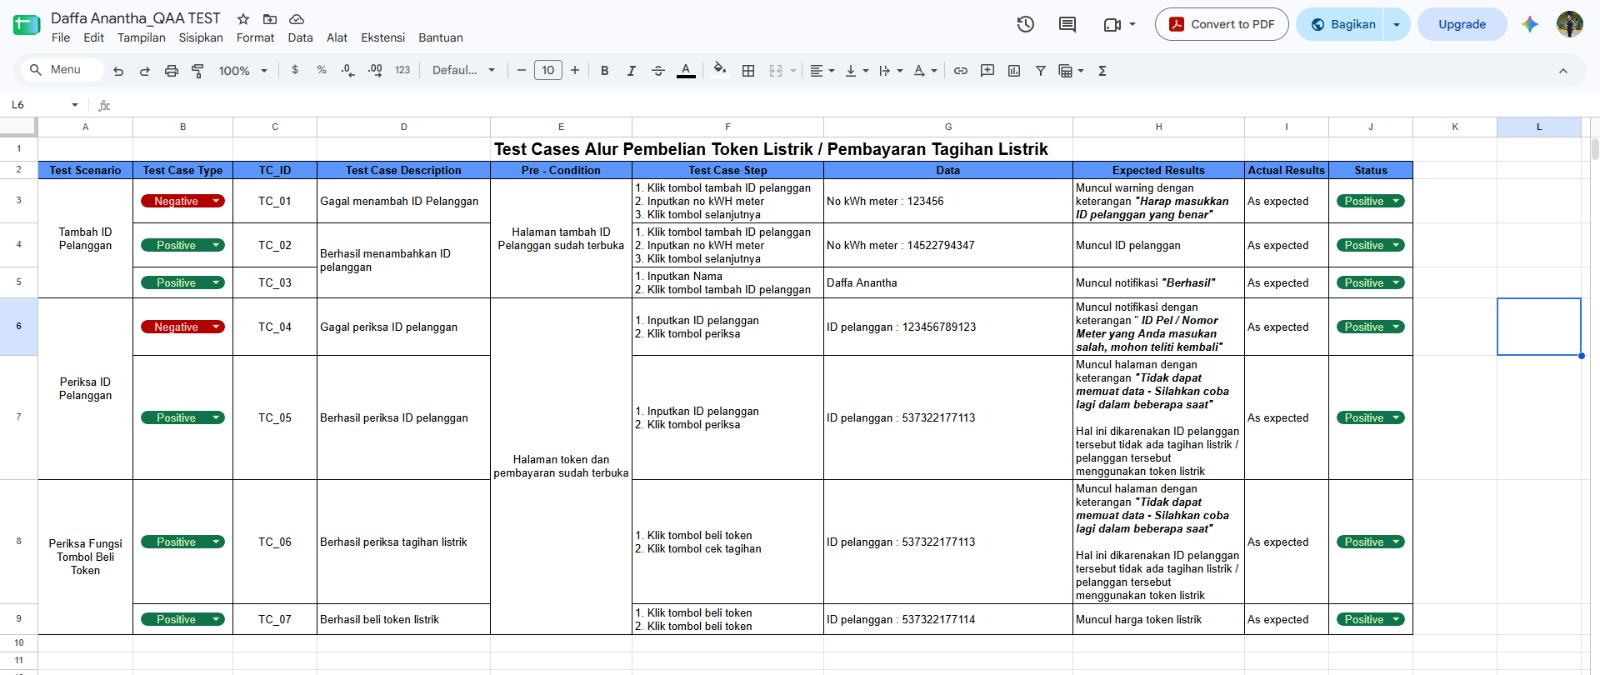
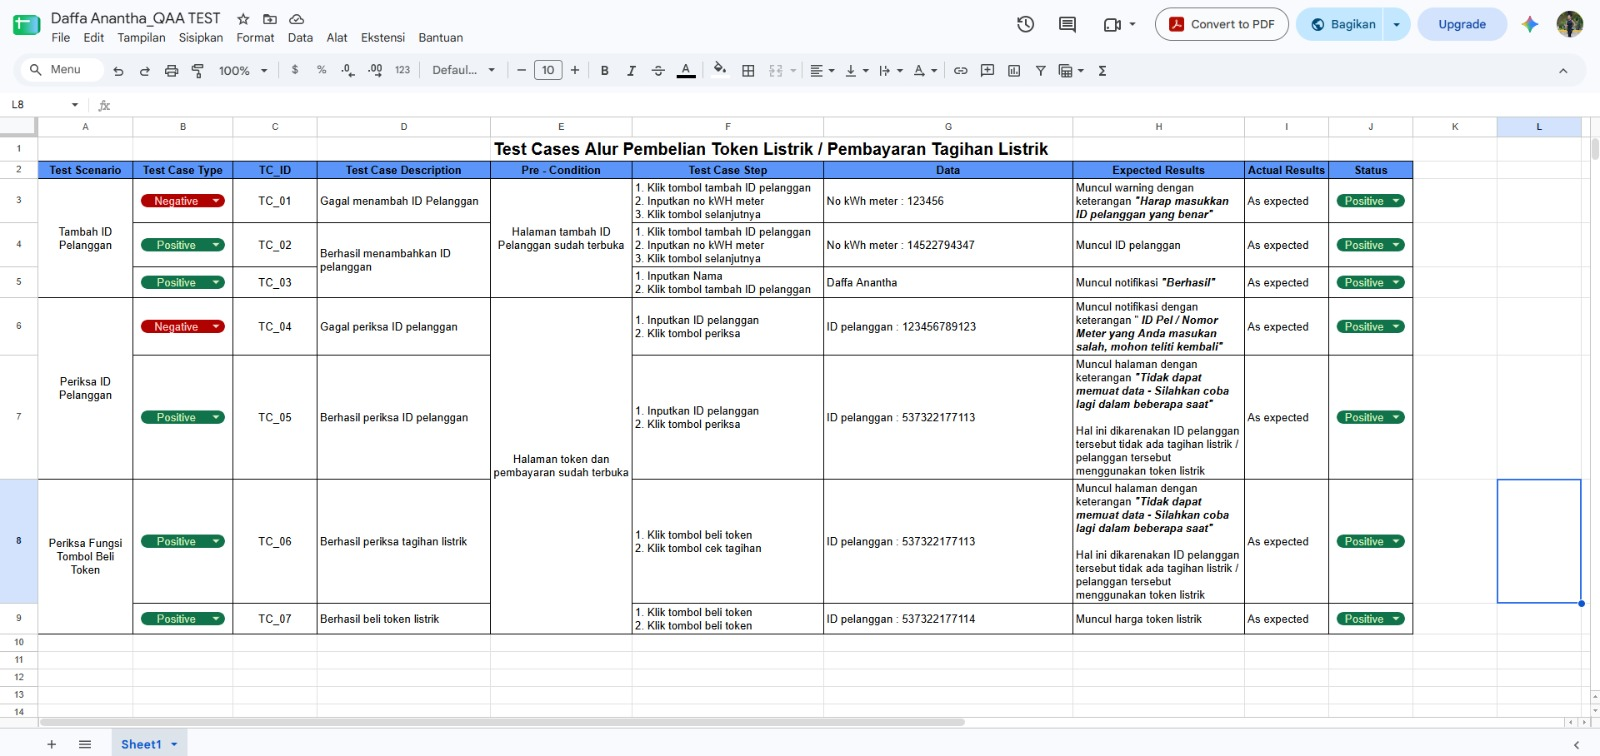
update portofolio

diff --git a/index.html b/index.html
@@ -353,7 +353,117 @@
 							</div>
 							<div class="short_info">
 								<h4><a href="https://docs.google.com/spreadsheets/d/17CIj_tGzQ-Go4fbSPzlQ1BrkA5r7YtKiU9ctzsDWLu4/edit?gid=0#gid=0">Test Case Project 3</a></h4>
-								<p>Alur Pembelian Token Listrik / Pembayaran Tagihan Listrik</p>
+								<p>Alur Pembelian dan Pembayaran Tagihan Listrik</p>
+							</div>
+						</div>
+					</div>
+				</div>
+			</div>
+			<div class="filters-content">
+				<div class="row portfolio-grid justify-content-center">
+					<div class="col-lg-4 col-md-6 all software-quality-assurance">
+						<div class="portfolio_box">
+							<div class="single_portfolio">
+								<img class="img-fluid w-100" src="img/portfolio/api-get(01).jpeg" alt="">
+								<div class="overlay"></div>
+								<a href="img/portfolio/api-get(01).jpeg" class="img-gal">
+									<div class="icon">
+										<span class="lnr lnr-cross"></span>
+									</div>
+								</a>
+							</div>
+							<div class="short_info">
+								<h4><a href="">API Testing - Method Get</a></h4>
+								<p>Login (Success)</p>
+							</div>
+						</div>
+					</div>
+					<div class="col-lg-4 col-md-6 all software-quality-assurance">
+						<div class="portfolio_box">
+							<div class="single_portfolio">
+								<img class="img-fluid w-100" src="img/portfolio/api-get(02).jpeg" alt="">
+								<div class="overlay"></div>
+								<a href="img/portfolio/api-get(02).jpeg" class="img-gal">
+									<div class="icon">
+										<span class="lnr lnr-cross"></span>
+									</div>
+								</a>
+							</div>
+							<div class="short_info">
+								<h4><a href="">API Testing - Method Get</a></h4>
+								<p>List User</p>
+							</div>
+						</div>
+					</div>
+					<div class="col-lg-4 col-md-6 all software-quality-assurance">
+						<div class="portfolio_box">
+							<div class="single_portfolio">
+								<img class="img-fluid w-100" src="img/portfolio/api-post.jpeg" alt="">
+								<div class="overlay"></div>
+								<a href="img/portfolio/api-post.jpeg" class="img-gal">
+									<div class="icon">
+										<span class="lnr lnr-cross"></span>
+									</div>
+								</a>
+							</div>
+							<div class="short_info">
+								<h4><a href="">API Testing - Method Post</a></h4>
+								<p>Create User</p>
+							</div>
+						</div>
+					</div>
+				</div>
+			</div>
+			<div class="filters-content">
+				<div class="row portfolio-grid justify-content-center">
+					<div class="col-lg-4 col-md-6 all software-quality-assurance">
+						<div class="portfolio_box">
+							<div class="single_portfolio">
+								<img class="img-fluid w-100" src="img/portfolio/api-put.jpeg" alt="">
+								<div class="overlay"></div>
+								<a href="img/portfolio/api-put.jpeg" class="img-gal">
+									<div class="icon">
+										<span class="lnr lnr-cross"></span>
+									</div>
+								</a>
+							</div>
+							<div class="short_info">
+								<h4><a href="">API Testing - Method Put</a></h4>
+								<p>Update Data User</p>
+							</div>
+						</div>
+					</div>
+					<div class="col-lg-4 col-md-6 all software-quality-assurance">
+						<div class="portfolio_box">
+							<div class="single_portfolio">
+								<img class="img-fluid w-100" src="img/portfolio/api-patch.jpeg" alt="">
+								<div class="overlay"></div>
+								<a href="img/portfolio/api-patch.jpeg" class="img-gal">
+									<div class="icon">
+										<span class="lnr lnr-cross"></span>
+									</div>
+								</a>
+							</div>
+							<div class="short_info">
+								<h4><a href="">API Testing - Method Patch</a></h4>
+								<p>Update Parsial Data User</p>
+							</div>
+						</div>
+					</div>
+					<div class="col-lg-4 col-md-6 all software-quality-assurance">
+						<div class="portfolio_box">
+							<div class="single_portfolio">
+								<img class="img-fluid w-100" src="img/portfolio/api-delete.jpeg" alt="">
+								<div class="overlay"></div>
+								<a href="img/portfolio/api-delete.jpeg" class="img-gal">
+									<div class="icon">
+										<span class="lnr lnr-cross"></span>
+									</div>
+								</a>
+							</div>
+							<div class="short_info">
+								<h4><a href="">API Testing - Method Deleted</a></h4>
+								<p>Deleted User</p>
 							</div>
 						</div>
 					</div>

diff --git a/projects.html b/projects.html
@@ -192,6 +192,116 @@
 					</div>
 				</div>
 			</div>
+			<div class="filters-content">
+				<div class="row portfolio-grid justify-content-center">
+					<div class="col-lg-4 col-md-6 all software-quality-assurance">
+						<div class="portfolio_box">
+							<div class="single_portfolio">
+								<img class="img-fluid w-100" src="img/portfolio/api-get(01).jpeg" alt="">
+								<div class="overlay"></div>
+								<a href="img/portfolio/api-get(01).jpeg" class="img-gal">
+									<div class="icon">
+										<span class="lnr lnr-cross"></span>
+									</div>
+								</a>
+							</div>
+							<div class="short_info">
+								<h4><a href="">API Testing - Method Get</a></h4>
+								<p>Login (Success)</p>
+							</div>
+						</div>
+					</div>
+					<div class="col-lg-4 col-md-6 all software-quality-assurance">
+						<div class="portfolio_box">
+							<div class="single_portfolio">
+								<img class="img-fluid w-100" src="img/portfolio/api-get(02).jpeg" alt="">
+								<div class="overlay"></div>
+								<a href="img/portfolio/api-get(02).jpeg" class="img-gal">
+									<div class="icon">
+										<span class="lnr lnr-cross"></span>
+									</div>
+								</a>
+							</div>
+							<div class="short_info">
+								<h4><a href="">API Testing - Method Get</a></h4>
+								<p>List User</p>
+							</div>
+						</div>
+					</div>
+					<div class="col-lg-4 col-md-6 all software-quality-assurance">
+						<div class="portfolio_box">
+							<div class="single_portfolio">
+								<img class="img-fluid w-100" src="img/portfolio/api-post.jpeg" alt="">
+								<div class="overlay"></div>
+								<a href="img/portfolio/api-post.jpeg" class="img-gal">
+									<div class="icon">
+										<span class="lnr lnr-cross"></span>
+									</div>
+								</a>
+							</div>
+							<div class="short_info">
+								<h4><a href="">API Testing - Method Post</a></h4>
+								<p>Create User</p>
+							</div>
+						</div>
+					</div>
+				</div>
+			</div>
+			<div class="filters-content">
+				<div class="row portfolio-grid justify-content-center">
+					<div class="col-lg-4 col-md-6 all software-quality-assurance">
+						<div class="portfolio_box">
+							<div class="single_portfolio">
+								<img class="img-fluid w-100" src="img/portfolio/api-put.jpeg" alt="">
+								<div class="overlay"></div>
+								<a href="img/portfolio/api-put.jpeg" class="img-gal">
+									<div class="icon">
+										<span class="lnr lnr-cross"></span>
+									</div>
+								</a>
+							</div>
+							<div class="short_info">
+								<h4><a href="">API Testing - Method Put</a></h4>
+								<p>Update Data User</p>
+							</div>
+						</div>
+					</div>
+					<div class="col-lg-4 col-md-6 all software-quality-assurance">
+						<div class="portfolio_box">
+							<div class="single_portfolio">
+								<img class="img-fluid w-100" src="img/portfolio/api-patch.jpeg" alt="">
+								<div class="overlay"></div>
+								<a href="img/portfolio/api-patch.jpeg" class="img-gal">
+									<div class="icon">
+										<span class="lnr lnr-cross"></span>
+									</div>
+								</a>
+							</div>
+							<div class="short_info">
+								<h4><a href="">API Testing - Method Patch</a></h4>
+								<p>Update Parsial Data User</p>
+							</div>
+						</div>
+					</div>
+					<div class="col-lg-4 col-md-6 all software-quality-assurance">
+						<div class="portfolio_box">
+							<div class="single_portfolio">
+								<img class="img-fluid w-100" src="img/portfolio/api-delete.jpeg" alt="">
+								<div class="overlay"></div>
+								<a href="img/portfolio/api-delete.jpeg" class="img-gal">
+									<div class="icon">
+										<span class="lnr lnr-cross"></span>
+									</div>
+								</a>
+							</div>
+							<div class="short_info">
+								<h4><a href="">API Testing - Method Deleted</a></h4>
+								<p>Deleted User</p>
+							</div>
+						</div>
+					</div>
+				</div>
+			</div>
         </div>
     </section>
     <!--================End Portfolio Area =================-->
